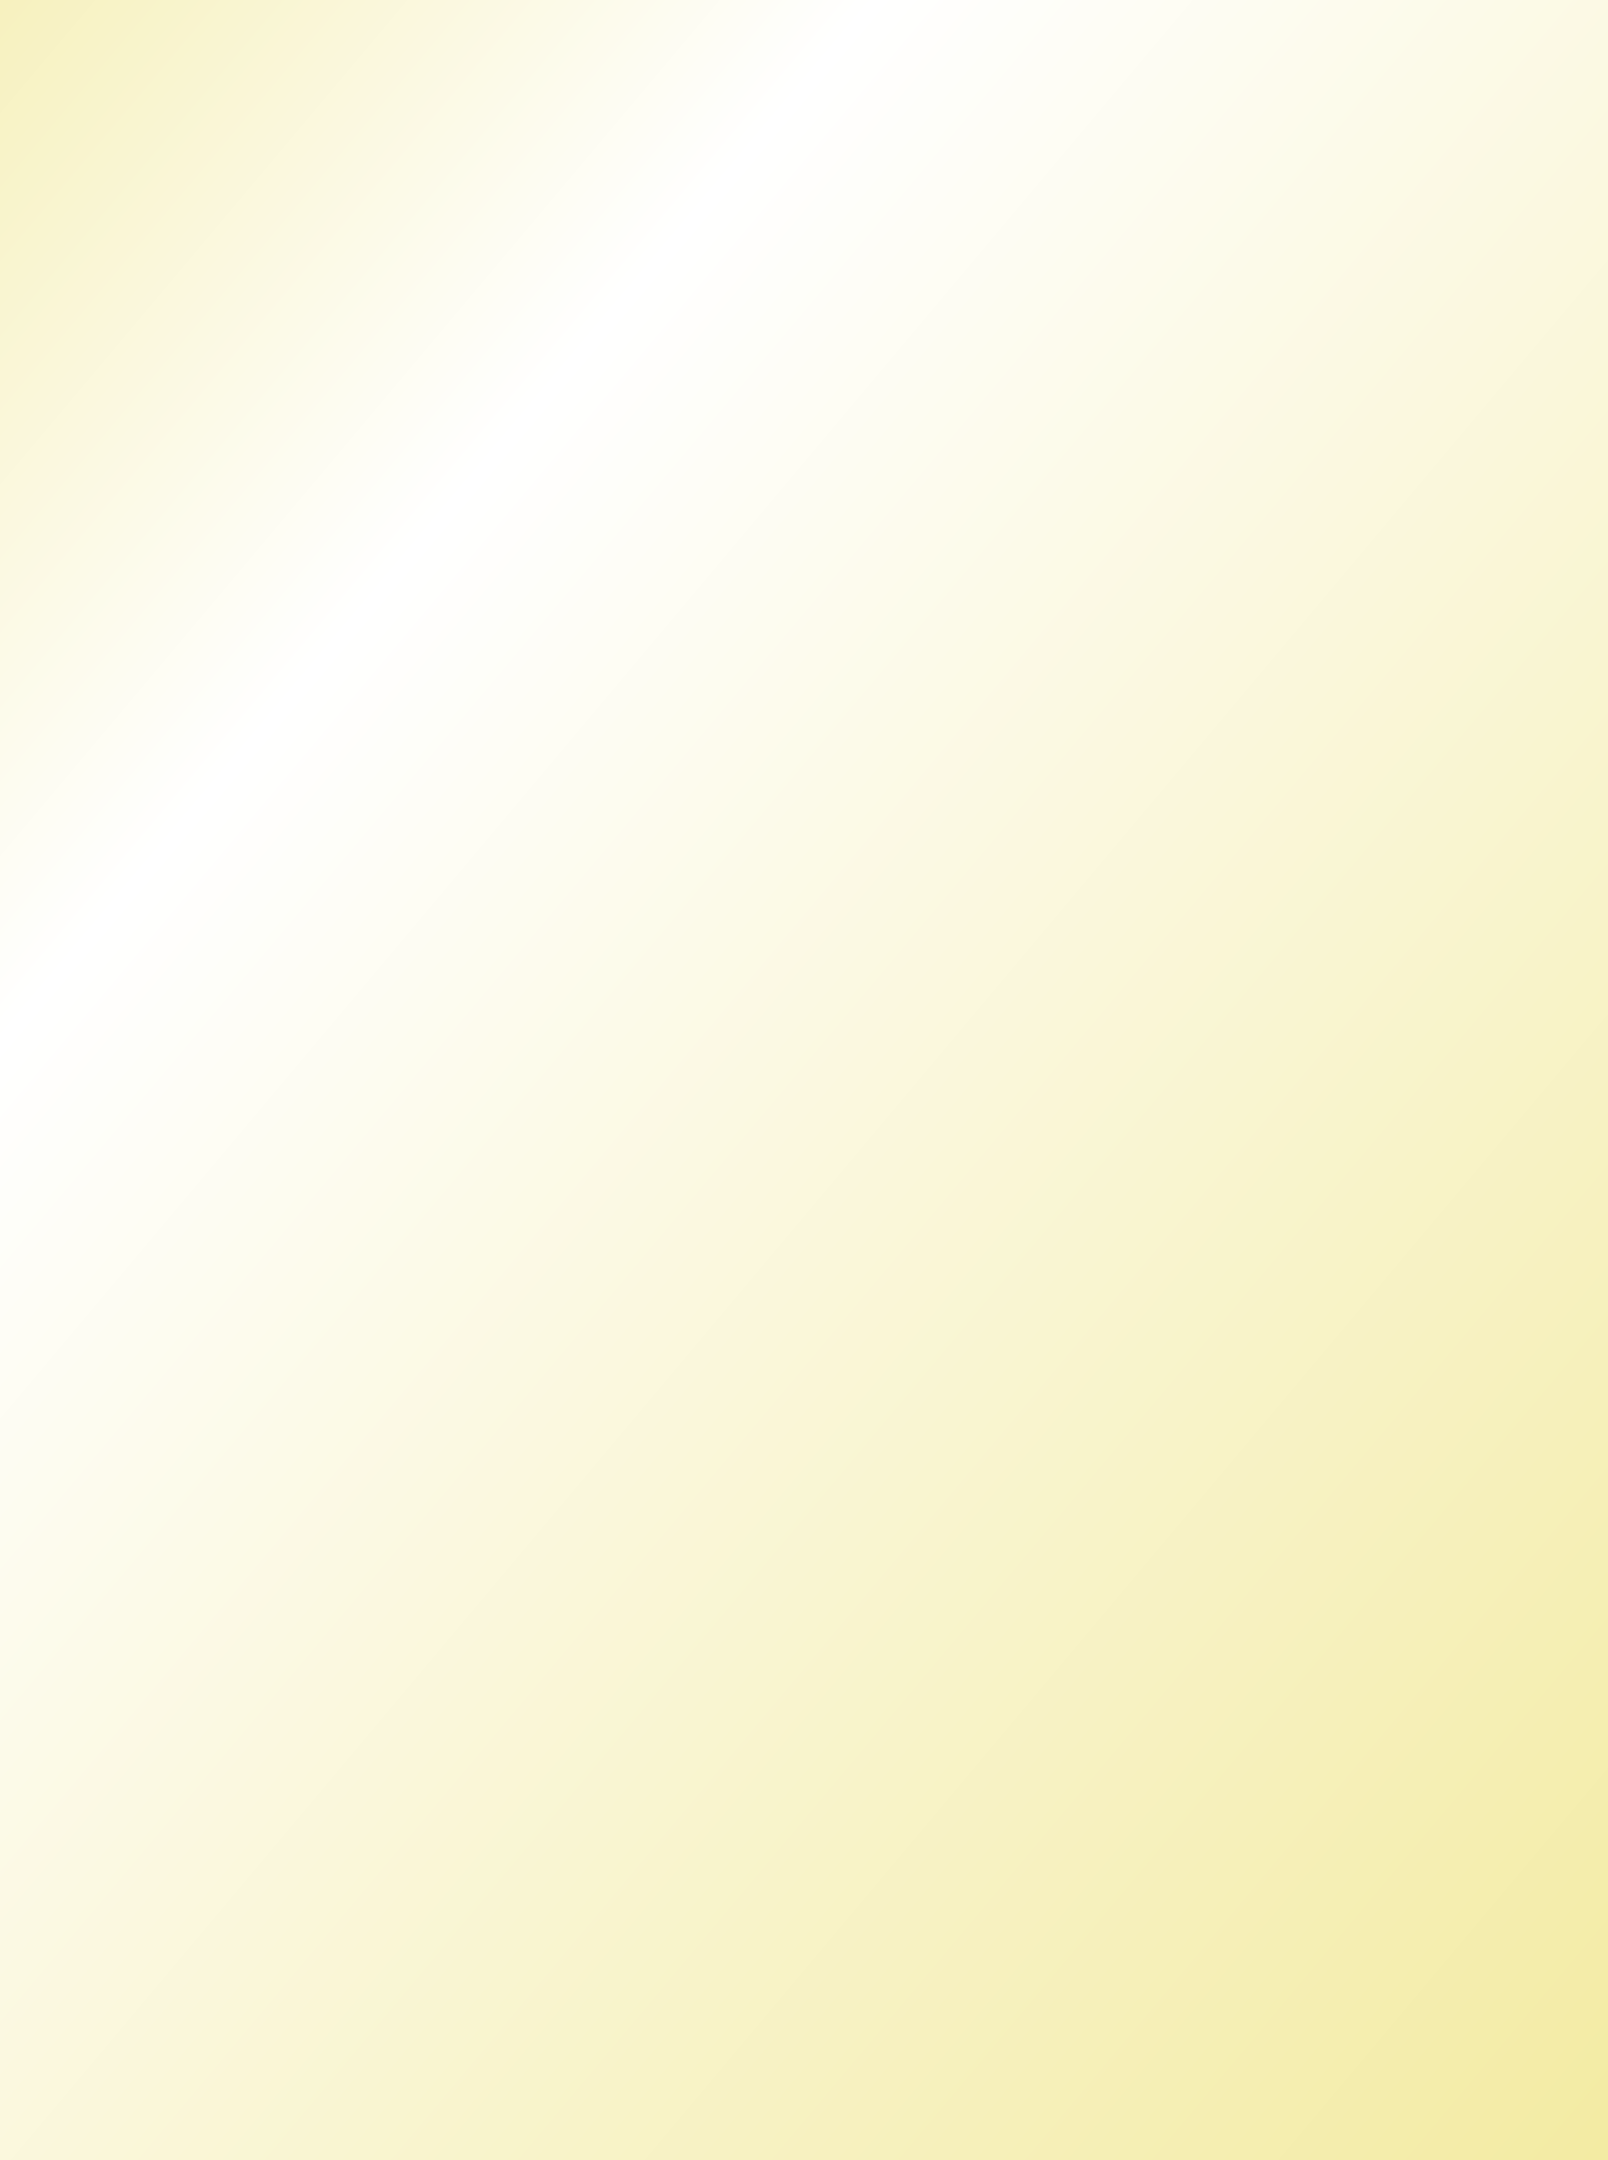
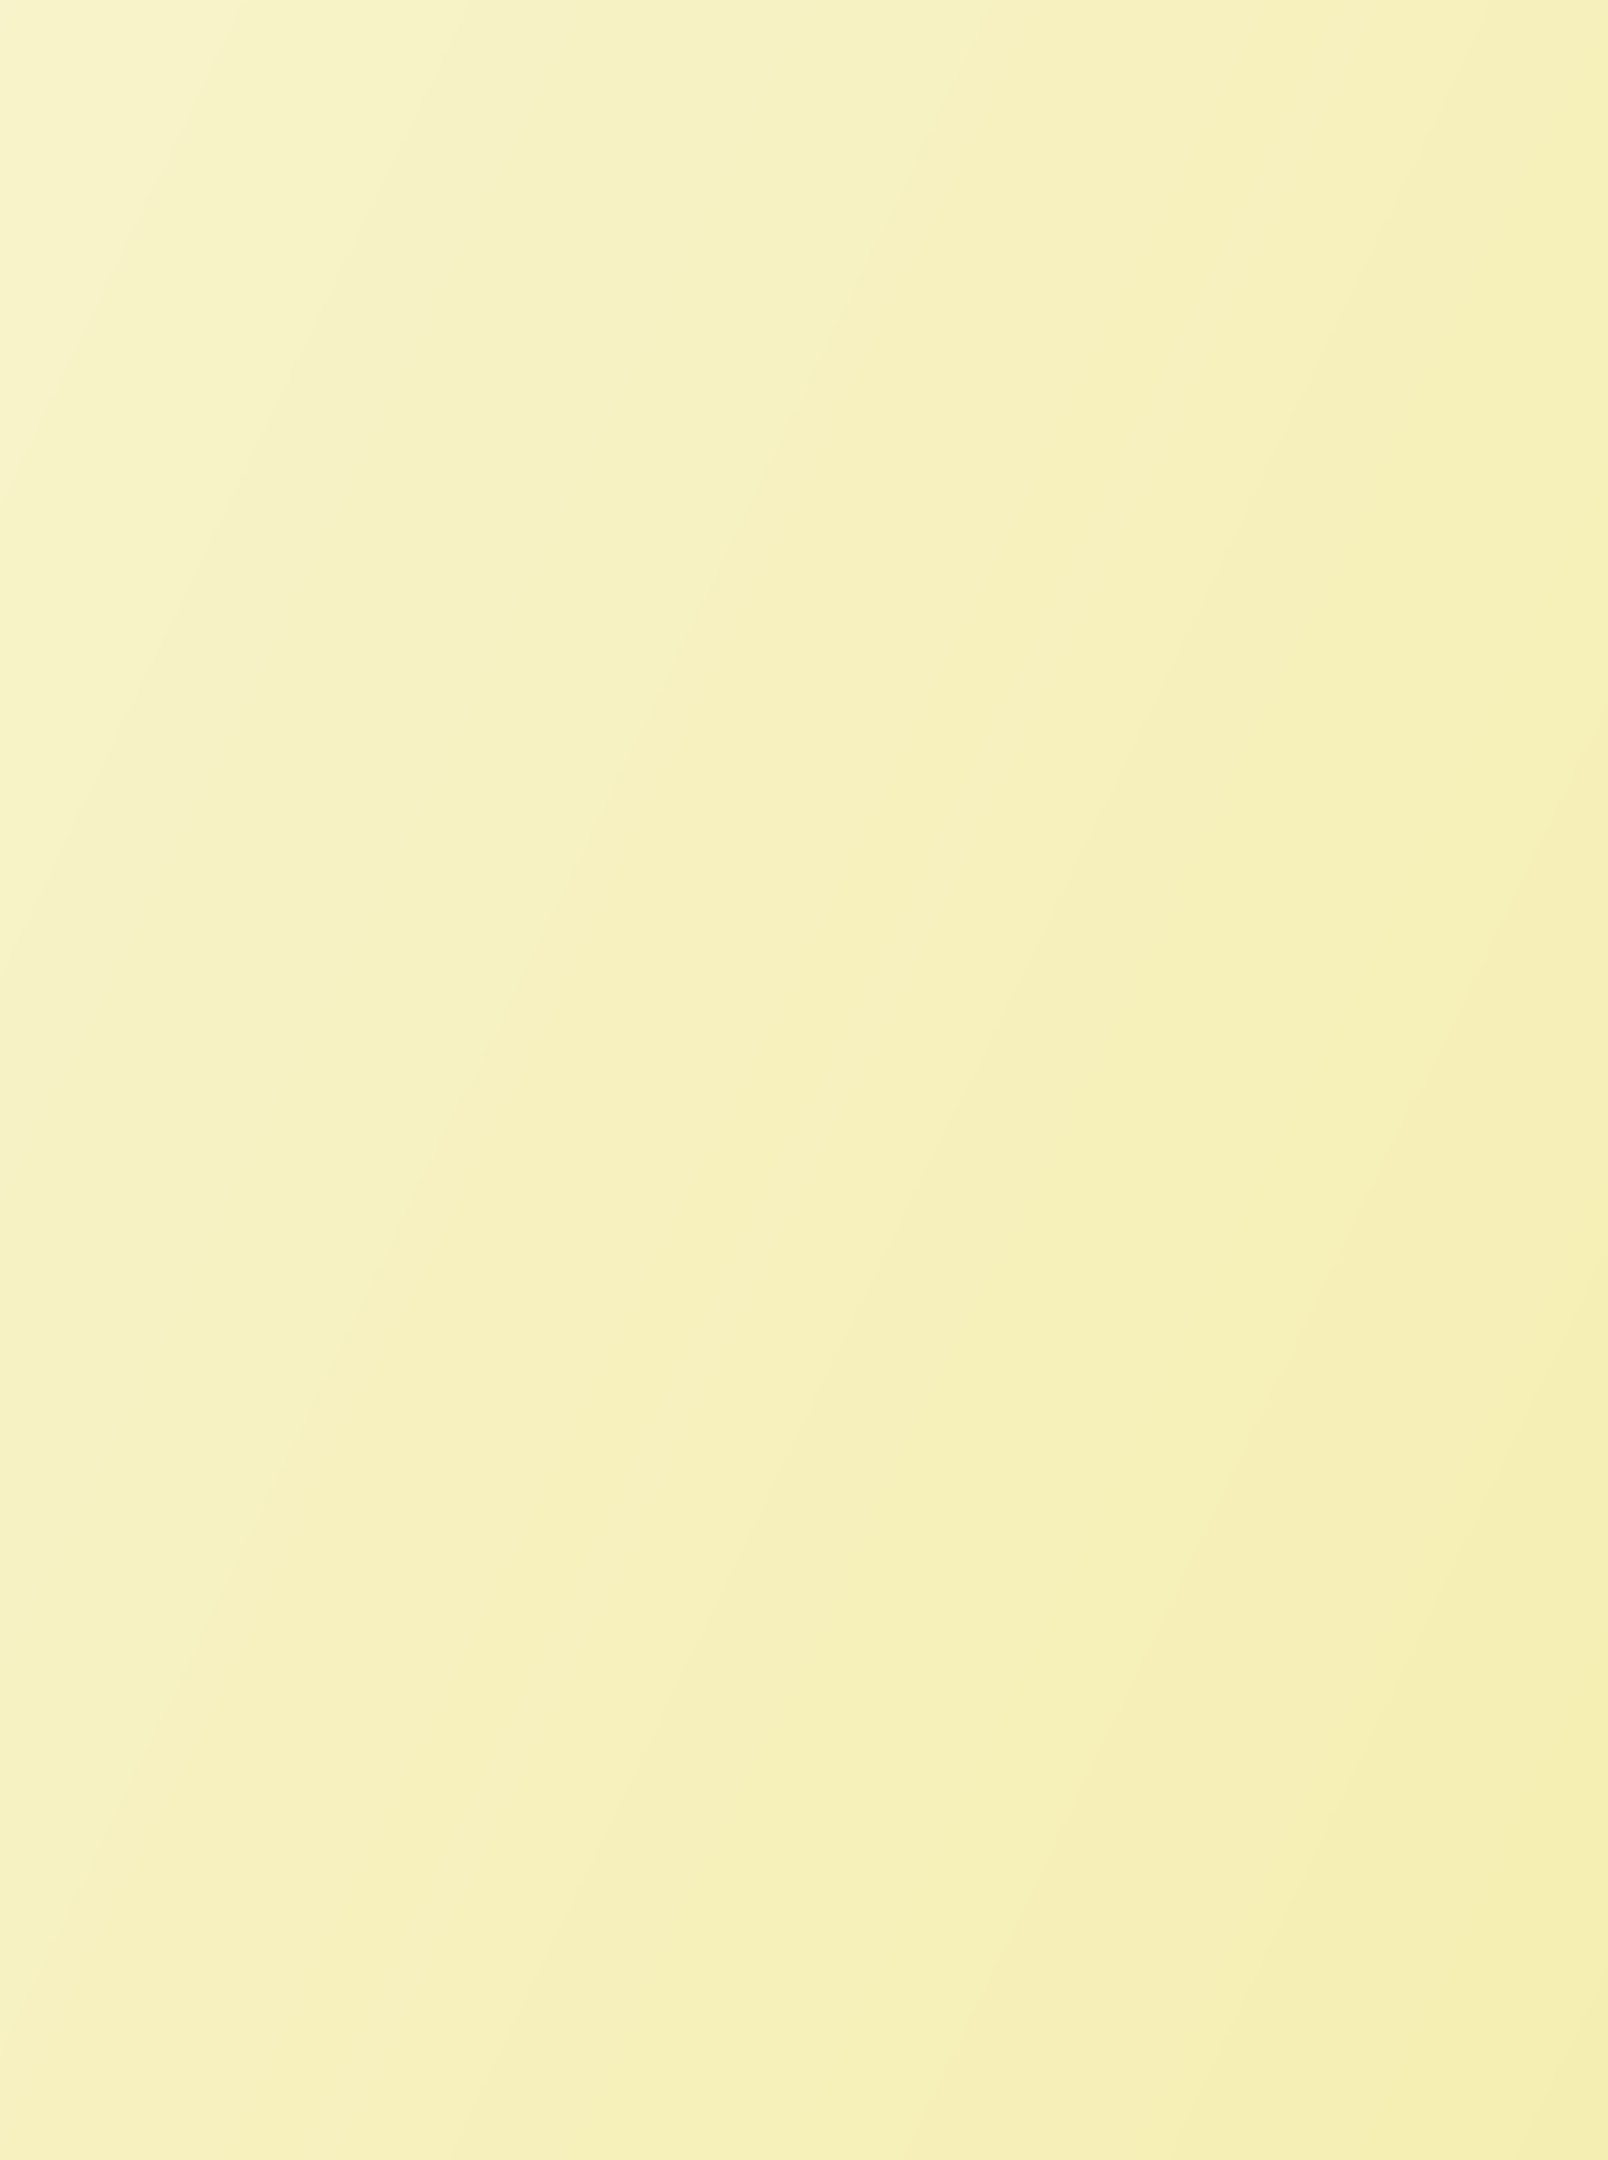
LIVE: by Rajesh: 07-03-2026

diff --git a/public/icard/templates/template_4.html b/public/icard/templates/template_4.html
@@ -119,7 +119,7 @@
             <!-- <img src="http://dev.triz.co.in/icard/templates/card-bg.jpg" alt=""> -->
             <div style="width: 40%;"></div>
             <div style="width: 60%;">
-                <div style="margin-top: 14%;width:100%;margin-bottom: 23%;padding-right: 9%;position: relative;padding-left: 10px;">
+                <div style="margin-top: 14%;width:100%;margin-bottom: 17%;padding-right: 9%;position: relative;padding-left: 10px;">
                     <div colspan="2" style="text-align: right;font-size: 3vh;font-weight: bold;padding-bottom: 1.6vh;padding-right: 2vh;padding-top: 5vh;-webkit-text-fill-color:#000000;-moz-text-fill-color:#000000;-ms-text-fill-color:#000000;-o-text-fill-color:#000000;">
                         &lt;&lt;division_name&gt;&gt;
                     </div>
@@ -130,7 +130,7 @@
                     <div colspan="2" style="font-size: 2.1vh;font-weight: bold;padding: 5px;padding-bottom: 1vh;padding-top: 0.8vh;padding-left: 0vh;-webkit-text-fill-color:#000000;-moz-text-fill-color:#000000;-ms-text-fill-color:#000000;-o-text-fill-color:#000000;"> 
                         &lt;&lt;short_student_name&gt;&gt;
                     </div>
-                    <div colspan="2" style="font-weight: bold;height: 52px;height:-webkit-fill-available;overflow: hidden;padding: 1px;font-size: 1.6vh;line-height: 2.4vh;padding-left: 1.2vh;vertical-align: text-top;-webkit-text-fill-color:#000000;-moz-text-fill-color:#000000;-ms-text-fill-color:#000000;-o-text-fill-color:#000000;margin-bottom: 2vh;">
+                    <div colspan="2" style="font-weight: bold;height: 52px;height:-webkit-fill-available;overflow: hidden;padding: 1px;font-size: 1.6vh;line-height: 2.4vh;padding-left: 1.2vh;vertical-align: text-top;-webkit-text-fill-color:#000000;-moz-text-fill-color:#000000;-ms-text-fill-color:#000000;-o-text-fill-color:#000000;margin-bottom: 1vh;">
                          &lt;&lt;address&gt;&gt;
                     </div>
                     <div style="display: -webkit-box;display: -moz-box;display: -ms-flexbox;display: -webkit-flex;display: flex;justify-content: space-between;margin-bottom: 1vh;">
